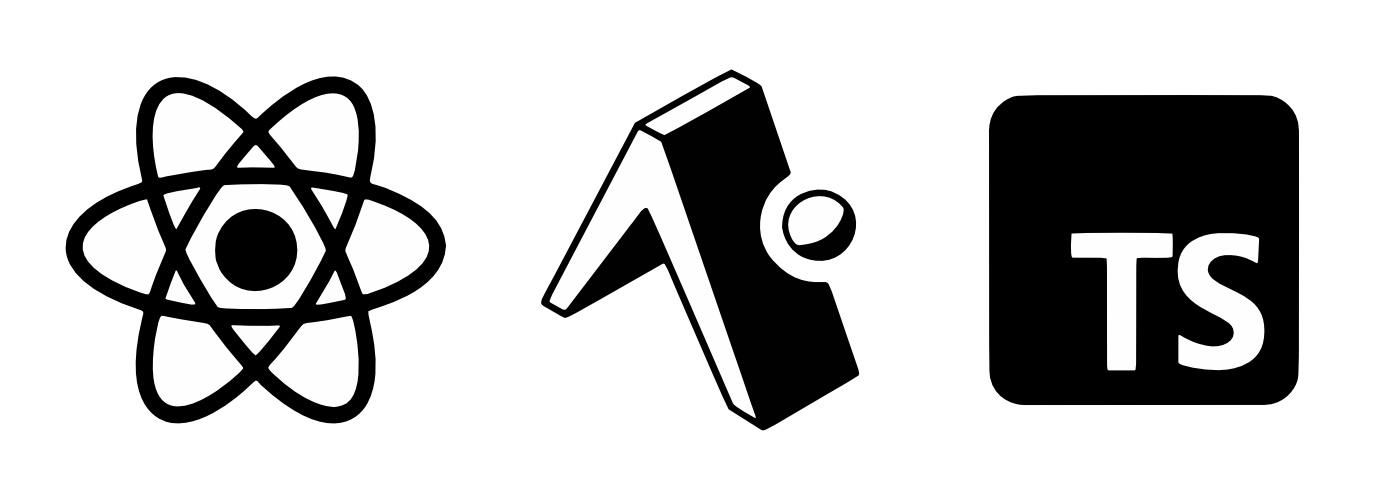
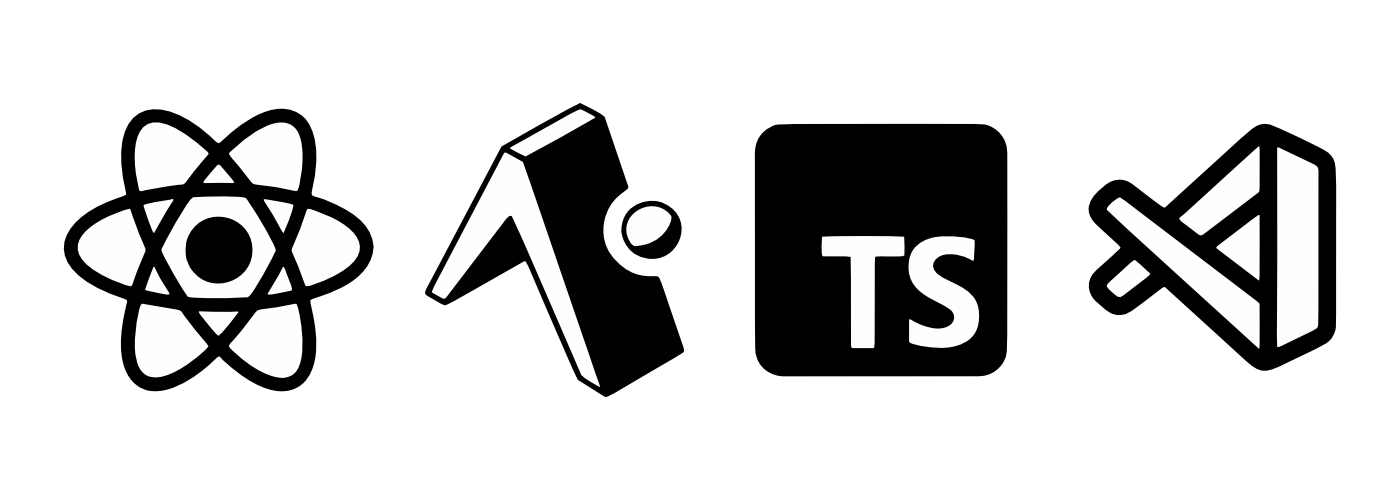
Updated README.md to reflect current project setup, feature additions, and CHANGELOG.

diff --git a/README.md b/README.md
@@ -1,143 +1,238 @@
 ![ChefBoard Banner](./banner.png)
 
+
 # ChefBoard App
 
-Chefs may create and review their menu items in one location with the help of **ChefBoard**, an easy-to-use mobile menu management application. Through a simple and appealing interface, the app ena[...]
+**ChefBoard** is an all-in-one mobile menu management application designed for professional chefs, culinary creators, and artisanal bakers. It streamlines kitchen operations by allowing users to build, organize, update, scale, and analyze the statistics of gourmet recipes and menus from a single, intuitive interface.
+
 
 ## App Walkthrough Video
 
-[ ✦ See What's Cooking ✦ ](https://youtu.be/Lyq6l66Y0UQ?si=sFuyBDnooqxrk-_A)
+[ ✦ See What's Cooking ✦ ](https://youtu.be/7U5GP29fuKY)
 
-Remember to change the viewing quaility to 1080p
+**Note: Remember to change the viewing quality to 1080p**
 
-## Features
-
-- **Add Menu Items** → Add a dish name, description, course, price, and optional dish photo.
-- **View Menu Items** → View all saved dishes from the home screen.
-- **Dish Details** → Open an individual dish to view its complete information.
-- **Dish Photos** → Add an optional photo and display it on the menu and dish-details screens.
-- **Course Categories** → Organize dishes as Starters, Main Courses, or Desserts.
-- **Menu Overview** → View the number of dishes in each course and the total menu.
-- **Temporary Clear Menu** → Remove all currently stored menu items with a confirmation prompt.
-- **Simple Interface** → A clean visual layout designed for quick menu management.
-
-## Technical Stack
-
-- React Native
-- Expo
-- Expo Router
-- TypeScript
-- React Native Safe Area Context
-- React Native SVG
-- Expo Image Picker
 
 ## Main Screens
 
 ### Home
+The home screen provides a centralized overview of the chef's menu, including:
 
-The home screen provides an overview of the chef's menu, including:
+- Search bar for quick lookup and course-based filter tabs (All, Starter, Main Course, Dessert)
+- Grid/card layouts for all active menu items with quick edit and delete actions
+- Navigation access to Add, Stats, and More views
 
-- Total number of menu items | starters, main courses and desserts
-- List of all menu items
-- Quick access to add a new dish
-- Temporary option to clear the menu for testing purposes
-
-### Add Menu Item
-
-The add-menu screen allows the chef to enter:
+### Add & Edit Menu Item
+The dish form allows the chef to enter or modify:
 
 - Dish name
 - Description
-- Course
+- Course category
 - Price
-- Optional dish photo
-
-After saving, the new dish is added to the menu.
+- Optional dish photo (with add/change and photo removal functionality)
 
 ### Dish Details
-
 The dish-details screen displays:
 
-- Dish photo
-- Dish name
-- Price
-- Course
-- Description
-- Date added
-- Additional dish information
-- Edit and delete actions | functionality with be added later on
+- Dish photo or default illustration
+- Dish name, price, course, and description
+- Date added and action triggers to edit or delete the dish
 
-### Dish Photos
+### Menu Statistics (`stats.tsx`)
+Provides real-time analytics and insights:
 
-ChefBoard supports optional dish photos. When adding a menu item, the chef can select a photo from the device using Expo Image Picker.
+- Total number of dishes accompanied by a custom basket graphic
+- Course-specific tallies for Starters, Main Courses, and Desserts
+- Average price calculation across all active menu items
 
-The selected image is associated with the menu item and can be displayed on:
+### More & FAQ (`more.tsx`)
+Features an expandable accordion menu containing:
 
-- The Home screen
-- The Dish Details screen
+- Frequently Asked Questions regarding menu management, adding/editing dishes, and search functions
+- About Us overview detailing the app's purpose and build specifications
 
-If no photo is selected, ChefBoard displays the default illustration instead.
 
-### Menu Data Menu
+## Features
 
-Items are managed using `MenuContext.tsx`.
+- **Clean Aesthetic** → A high-contrast minimalist interface featuring rounded white cards and custom typography.
+- **Add Menu Items** → Add a dish name, description, course category, price, and optional dish photo.
+- **Dish Photos** → Add, change using Expo Image Picker.
 
-Each menu item contains the following information:
+![Add Item](assets/images/dish.png)
 
-- Text
-- id
-- Dish Name
-- Description
-- Course
-- Price
-- Date Added
-- Image
+- **Menu Validation** → Built-in validation prompts if required fields are left empty.
+
+![Menu Validation](assets/images/missing.png)
+
+- **Dish Details** → Open an individual dish to view its complete culinary breakdown and metadata.
+- **Edit Operations** → Update existing dish details/prices.
+
+![Dish Details & Edit](assets/images/details.png)
+
+- **View Menu & Search** → View all saved dishes on the home screen and search for specific recipes instantly by name.
+
+![View Menu & Search](assets/images/menu.png)
+
+- **Filter Validation & Course Filtering** → Filter items instantly by course (Starter, Main Course, Dessert) or reset filters, with validation prompts to guide your search and category selection.
+
+![Filter Validatio](assets/images/filter.png)
+
+- **Remove Dish Photos** → Remove photos using Expo Image Picker.
+- **Delete Operations** → Delete single items seamlessly.
+- **Clear Menu** → Remove all currently stored menu items with a single confirmation prompt.
+
+![Clear & Delete Menu](assets/images/remove.png)
+
+- **Menu Statistics & Analytics** → Track total dish counts, individual course breakdowns, and average menu item pricing in real-time.
+
+![Menu Statistics](assets/images/stats.png)
+
+- **More & FAQ Accordion** → Access interactive FAQs and About Us information via expandable drop-down menus.
+
+![More Tab](assets/images/more.png)
+
+
+## Getting Started
+
+Follow these steps to set up and run **ChefBoard** locally on your machine.
+
+### Prerequisites
+- Node.js installed on your system
+- npm, yarn, or pnpm
+- Expo Go app installed on your mobile device (iOS/Android) or a running emulator/simulator.
+
+### Installation
+
+1. **Clone the repository:**
+
+- git clone [https://github.com/Lethabomohlala/ChefBoard.git](https://github.com/Lethabomohlala/ChefBoard.git)
+- cd `ChefBoard`
+
+2. **Install dependencies:**
+
+- `npm install` or `yarn install`
+
+3. **Start the development server:**
+
+- `npx expo start`
+
+4. **Run the app:**
+
+- Scan the QR code using the Expo Go app (Android) or Camera app (iOS).
+- Press a for Android emulator or i for iOS simulator.
+
+
+## Technical Stack
+
+- React Native
+- Expo & Expo Router
+- TypeScript
+- React Native Safe Area Context
+- React Native SVG
+- Expo Image Picker
+- VSCode
+
+![Stack Badges](assets/images/stack.png)
+
+
+## Menu Data Management
+
+Items are managed globally using `MenuContext.tsx`. Each menu item contains:
+
+- `id`
+- `name`
+- `description`
+- `course`
+- `price`
+- `dateAdded`
+- `image`
+
 
 ## Design Considerations
 
-ChefBoard was designed with simplicity, usability, and visual clarity in mind.
+ChefBoard was designed with simplicity, usability, and visual clarity in mind:
 
-- **Simple Navigation |** The application uses a straightforward navigation structure so chefs can quickly move between the main sections of the app.
-- **User-Friendly Interface |** Forms and buttons are clearly labelled to make adding and viewing dishes easy.
-- **Visual Consistency |** A consistent colour palette, typography, spacing, and rounded UI elements are used throughout the application.
-- **Responsive Layout |** The interface is designed to adapt to different mobile screen sizes.
-- **Accessibility |** Clear text labels, sufficient contrast, and large interactive elements help improve usability.
-- **Visual Feedback |** The application provides confirmation messages and visual feedback when users add menu items or perform important actions.
-- **Dish Photography |** Chefs can optionally add photos to menu items, allowing dishes to be identified visually.
-- **Error Prevention |** Required fields and validation help prevent incomplete or invalid menu items from being added.
+- **Simple Navigation |** Straightforward navigation and tab routing.
+- **User-Friendly Interface |** Clearly labeled forms and interactive elements.
+- **Visual Consistency |** Cohesive color palette (`#D7ECF1` background, `#469A6E` green, `#E14E3E` red), rounded white cards (24px), and custom typography.
+- **Responsive Layout |** Adapts cleanly across mobile screen viewports.
+- **Visual Feedback |** Confirmation alerts and state updates for all CRUD actions.
 
-## Screens
 
-![Chefboard Screens](assets/images/appscreens.png)
+## PROJECT CHANGELOG | Changes since Part 2: 10 September 2026
+
+### v1.0.0 | 06 November 2026
+
+### Added 
+
+#### Navigation & Routing |
+
+- Integrated back-navigation routing to home and structured culinary content styling.
+
+#### Menu & Dish Management |
+
+- Added updateMenuItem function to edit existing dishes in state.
+- Added deleteMenuItem function to remove dishes from state.
+- Added remove photo capability to dish form, including a removePhoto handler with a confirmation alert and an action button (x) alongside the change photo overlay.
+- Added decimal handling and normalization for price input.
+- Added course filter chips (All, Starter, Main Course, Dessert) with instant filtering.
+- Added inline SVG action buttons for dish editing and deletion.
+
+#### UI Components & Features |
+
+- Added state-managed dropdown expansion for Frequently Asked Questions and About Us sections in more.tsx.
+- Implemented interactive accordion menu and layout alignment into more.tsx.
+- Implemented live menu statistics and analytics overview, connecting stats.tsx to MenuContext for real-time item tracking and dynamic course/price calculations.
+- Implemented spelling tolerance for search.
+- Implemented empty and no-results feedback UI with filter reset functionality.
+- Added search TextInput capped at 50 characters with auto-capitalization.
+- Addition to image assets.
+
+### Updated 
+
+#### UI, Layout & Styling |
+
+- Refactored UI layout and search/filtering workflows.
+- Removed course count cards from top section of home screen.
+- Updated MenuContextType interface and Provider value.
+- Updated TabBar onPress handler to safely evaluate optional navigation.emit before pushing routes.
+- Aligned Expo SDK 58 dependencies and cleared bundler/TypeScript cache issues.
+- Repositioned divider lines to render cleanly at the bottom of each accordion section.
+- Aligned accordion titles to the right with expansion icons (x) positioned on the left.
+- Implemented dynamic color-shifting on active accordion icons.
+- Updated stats.tsx UI.
+- Updated dishdetails.tsx default image background colour.
+- Updated more.tsx about description.
+- Connected edit and delete actions to global menu context, importing deleteMenuItem with confirmation alert and redirection, and updating handleEdit to navigate to add.tsx carrying current dish id for seamless form pre-filling.
+- Redesigned menu item cards to a white background with rounded borders and stacked layout.
+- Positioned dish price directly below dish name on the left side, and placed edit/delete action buttons vertically on the right.
+- Increased font sizes and padding for dish titles and course labels to prevent text overflow.
+- Moved utensils.png outside of the padded scroll view container to prevent clipping and disappearing bugs caused by negative margins.
+- Cleared form state and reset inputs on new dish creation.
+- Implemented pre-filled editing, form validations, navigation, and UX controls.
+
+#### Documentation |
+
+- Updated README.md to reflect current project setup, feature additions, and system workflows.
+
+### Fixed 
+
+#### Component & Routing Fixes |
+
+- Fixed incorrect relative import path for Expo router in TabBar component.
+
 
 ## Future Improvements
 
-ChefBoard will continue to be improved after the current version. Future development will be divided into short-term improvements and improvements required before the application is released on a[...]
-
-### Short-term
-
-- **Edit Menu Items |** Allow chefs to update existing dish information.
-- **Delete Menu Items |** Allow individual menu items to be removed.
-- **Search and Filtering |** Make it easier to find dishes by name, course, or other criteria.
-- **Menu Statistics |** Provide useful statistics such as the number of dishes in each course category.
-- **Persistent Data Storage |** Store menu items permanently so that data remains available after closing the application.
-- **Improved Photo Management |** Allow chefs to replace, remove, and manage dish photos more easily.
-- **Improved Form Validation |** Add stronger validation and clearer error messages when entering menu information.
-- **UI Improvements |** Refine layouts, spacing, animations, and responsiveness based on user feedback and testing.
-- **Device Compatibility Testing:** Test the application across different screen sizes and supported devices.
-- **Error Handling:** Add comprehensive error handling for unexpected problems and failed operations.
+ChefBoard will undergo ongoing development past its current release, with future updates focused on long-term enhancements.
 
 ### Long-term
+- **Menu Export |** Allow chefs to export menus as PDFs or shareable backups.
+- **Cloud Synchronization | ** Synchronize menu data across multiple kitchen devices.
+- **User Accounts |** Support individual chef profiles and personalized portfolios.
+- **Advanced Analytics |** Provide deeper insights into ingredient costs and menu profitability.
+- **App Store Preparation |** Finalize promotional assets, privacy policies, and store listings.
 
-- **Menu Export |** Allow chefs to export their menus for sharing or printing.
-- **Cloud Synchronization |** Synchronize menu data across multiple devices.
-- **User Accounts |** Support individual chef accounts and personalized menus.
-- **Menu Sharing |** Allow chefs to share menus digitally with customers or other staff members.
-- **Advanced Analytics |** Provide more detailed insights into menu items and menu performance.
-- **Security |** Protect user data and ensure that sensitive information is handled securely.
-- **User Testing |** Conduct usability testing with potential users and implement improvements based on their feedback.
-- **App Store Preparation |** Prepare the application icon, screenshots, descriptions, promotional materials, privacy information, and other required store assets.
-- **Final Quality Assurance |** Conduct final testing to identify and resolve bugs before release.
 
 ## Author
 
@@ -147,4 +242,4 @@ ChefBoard will continue to be improved after the current version. Future develop
 
 © 2026 Lethabo Mohlala. All rights reserved.
 
-This project and its source code are intended for educational and project purposes. Unauthorized copying, redistribution, or commercial use of this project is not permitted without permission fro[...]
+This project and its source code are intended for educational and project purposes. Unauthorized copying, redistribution, or commercial use of this project is not permitted without permission from the Author.
